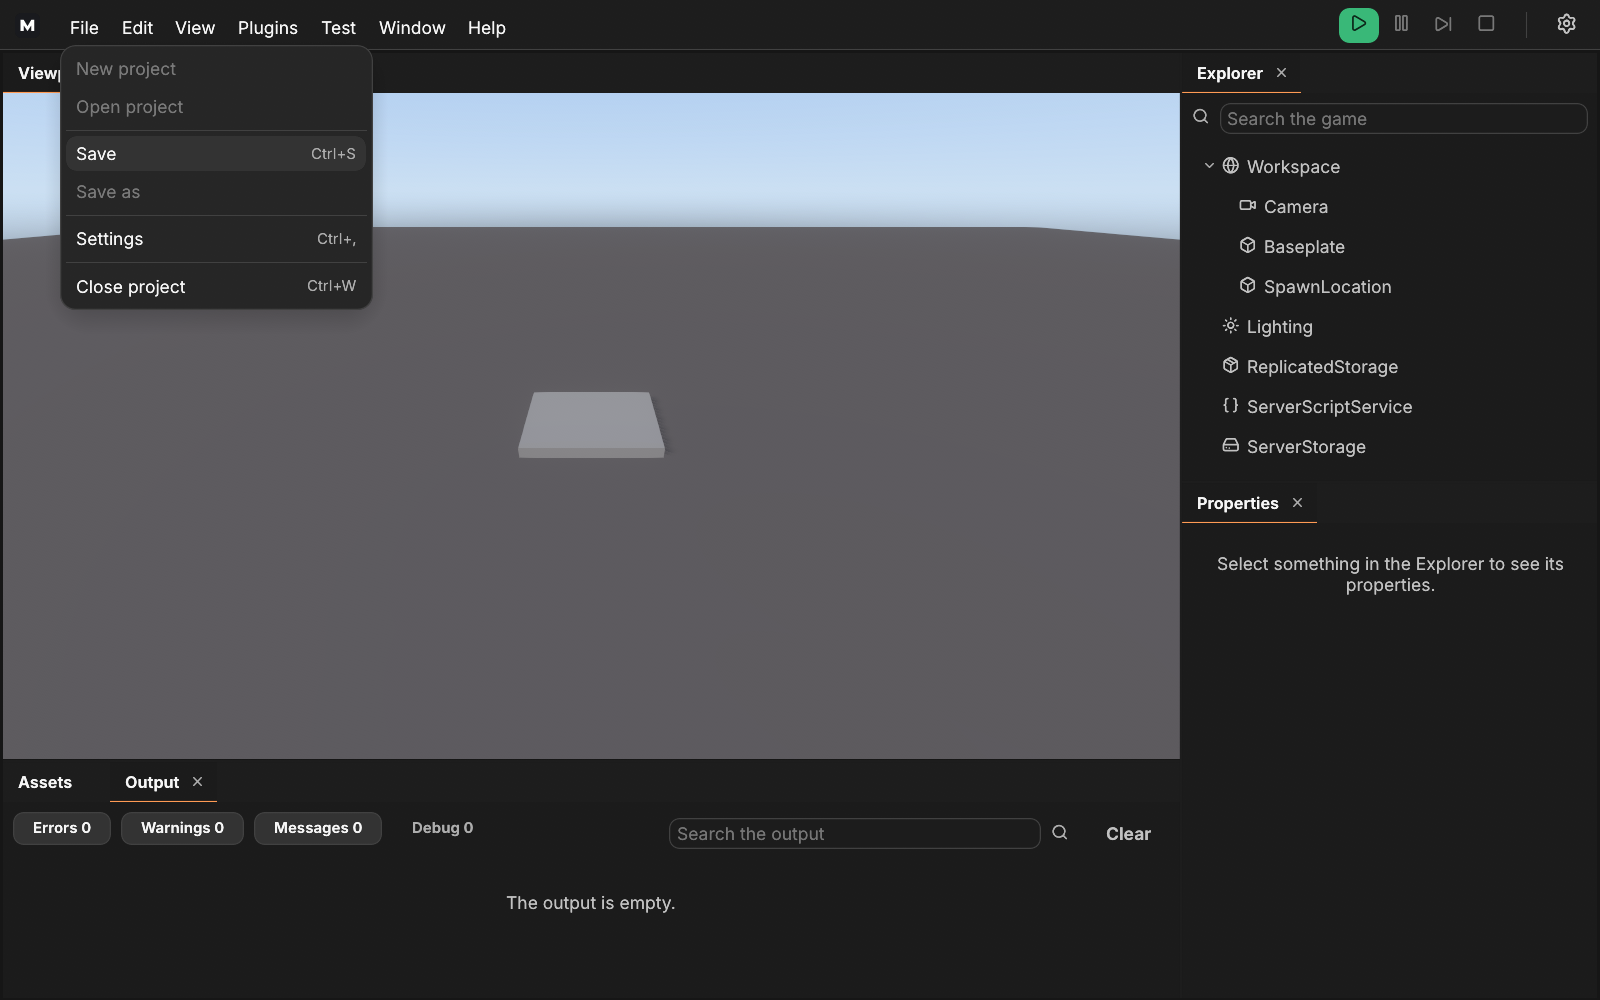
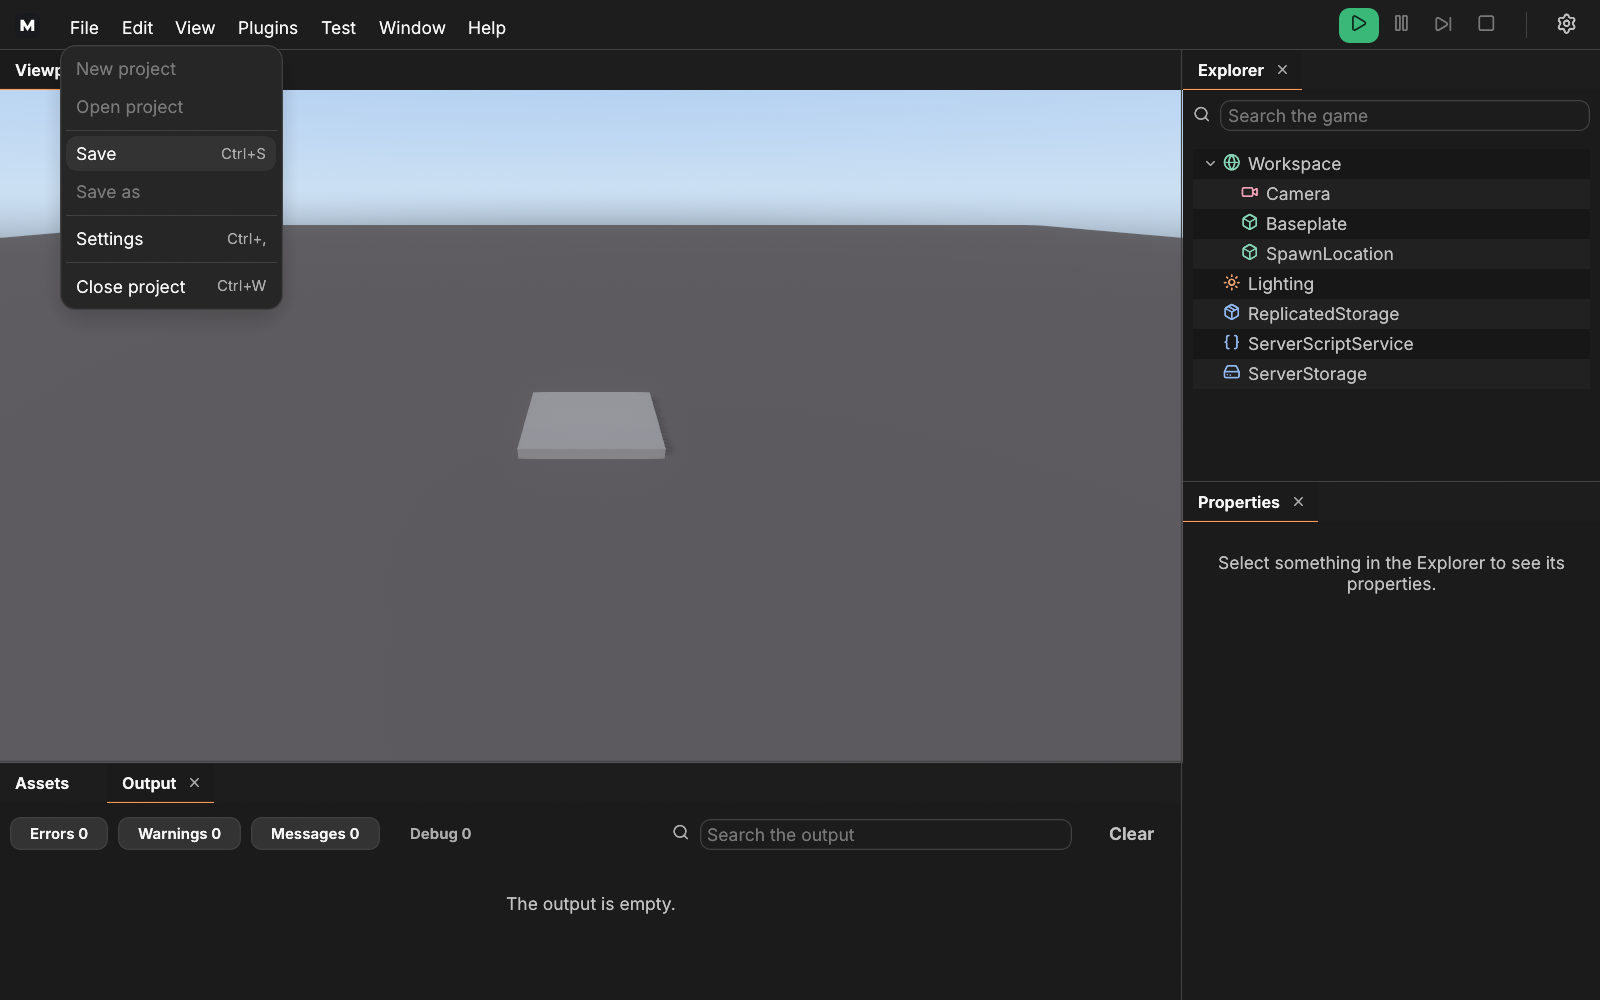
studio: compact menu popups in the menu bar (#276) (#282)

diff --git a/apps/studio/src/app/editor.rs b/apps/studio/src/app/editor.rs
@@ -20,8 +20,10 @@ use crate::theme::{ButtonKind, button, current_colors, fonts};
 
 /// The top bar's height.
 pub(crate) const BAR_HEIGHT: f32 = 40.0;
-/// A menu's width.
-const MENU_WIDTH: f32 = 240.0;
+/// The narrowest a menu is (#276: otherwise as wide as its longest item and shortcut need).
+const MENU_MIN_WIDTH: f32 = 150.0;
+/// The space between an item's label and its shortcut.
+const SHORTCUT_GAP: f32 = space::S8;
 /// A menu item's height.
 const ITEM_HEIGHT: f32 = 28.0;
 /// A menu title's height in the bar.
@@ -313,8 +315,10 @@ pub(crate) fn top_bar(
                                 .min_size(vec2(*width, TITLE_HEIGHT))
                                 .corner_radius(CornerRadius::same(radius::ITEM));
                             let (response, _) = egui::containers::menu::MenuButton::from_button(title).ui(ui, |ui| {
-                                ui.set_min_width(MENU_WIDTH);
-                                if let Some(chosen) = menu_entries(ui, menu, dock, keymap, play) {
+                                let width = menu_width(ui, menu, dock, keymap);
+                                ui.set_min_width(width);
+                                ui.set_max_width(width);
+                                if let Some(chosen) = menu_entries(ui, menu, dock, keymap, play, width) {
                                     action = Some(chosen);
                                 }
                             });
@@ -424,7 +428,14 @@ fn gear(ui: &mut Ui, open: bool) -> Response {
 }
 
 /// Draws `menu`'s lines into its open popup. Returns what was chosen.
-fn menu_entries(ui: &mut Ui, menu: &Menu, dock: &Dock, keymap: &Keymap, play: PlayState) -> Option<MenuAction> {
+fn menu_entries(
+    ui: &mut Ui,
+    menu: &Menu,
+    dock: &Dock,
+    keymap: &Keymap,
+    play: PlayState,
+    width: f32,
+) -> Option<MenuAction> {
     let mut chosen = None;
     ui.spacing_mut().item_spacing.y = 2.0;
     for entry in menu.entries {
@@ -436,17 +447,17 @@ fn menu_entries(ui: &mut Ui, menu: &Menu, dock: &Dock, keymap: &Keymap, play: Pl
                 } else {
                     label
                 };
-                if menu_item(ui, label, keys, None, play.allows(action)).clicked() {
+                if menu_item(ui, width, label, keys, None, play.allows(action)).clicked() {
                     chosen = Some(action);
                 }
             }
             Entry::Planned(label) => {
-                menu_item(ui, label, None, None, false).on_hover_text("Coming in a later version of Studio.");
+                menu_item(ui, width, label, None, None, false).on_hover_text("Coming in a later version of Studio.");
             }
             Entry::Panels => {
                 for panel in dock.panels().iter().filter(|panel| !panel.transient()) {
                     let open = dock.is_open(panel.id());
-                    if menu_item(ui, panel.title(), None, Some(open), true).clicked() {
+                    if menu_item(ui, width, panel.title(), None, Some(open), true).clicked() {
                         chosen = Some(MenuAction::Toggle(panel.id()));
                     }
                 }
@@ -459,13 +470,58 @@ fn menu_entries(ui: &mut Ui, menu: &Menu, dock: &Dock, keymap: &Keymap, play: Pl
     chosen
 }
 
-/// A menu item: a check mark when `checked` is `Some(true)`, the label, and the shortcut on the right. A click closes
+/// How wide `menu` is (#276): its longest line, the check column (for the panels' list), the label, the gap and the
+/// shortcut, with the item's padding on both sides; never less than [`MENU_MIN_WIDTH`].
+fn menu_width(ui: &Ui, menu: &Menu, dock: &Dock, keymap: &Keymap) -> f32 {
+    let painter = ui.painter();
+    let measure = |text: &str, size: f32| {
+        painter
+            .layout_no_wrap(text.to_owned(), egui::FontId::proportional(size), Color32::WHITE)
+            .size()
+            .x
+    };
+    let mut widest: f32 = 0.0;
+    let mut line = |label: &str, shortcut: Option<String>, check: bool| {
+        let check = if check { text::BODY + space::S3 } else { 0.0 };
+        let keys = shortcut.map_or(0.0, |keys| SHORTCUT_GAP + measure(&keys, text::SMALL));
+        widest = widest.max(check + measure(label, text::BODY) + keys);
+    };
+    for entry in menu.entries {
+        match *entry {
+            Entry::Item { label, action, command } => {
+                let keys = command.and_then(|id| keymap.shortcut_text(id));
+                line(label, keys.clone(), false);
+                if action == MenuAction::Pause {
+                    // Pause reads Resume while paused: the menu keeps one width.
+                    line("Resume", keys, false);
+                }
+            }
+            Entry::Planned(label) => line(label, None, false),
+            Entry::Panels => {
+                for panel in dock.panels().iter().filter(|panel| !panel.transient()) {
+                    line(panel.title(), None, true);
+                }
+            }
+            Entry::Separator => {}
+        }
+    }
+    (widest + 2.0 * space::S4).ceil().max(MENU_MIN_WIDTH)
+}
+
+/// A menu item `width` wide: a check mark when `checked` is `Some(true)`, the label, and the shortcut on the right. A click closes
 /// the menu. Not `enabled`, it is drawn at the theme's disabled strength and does nothing.
-fn menu_item(ui: &mut Ui, label: &str, shortcut: Option<String>, checked: Option<bool>, enabled: bool) -> Response {
+fn menu_item(
+    ui: &mut Ui,
+    width: f32,
+    label: &str,
+    shortcut: Option<String>,
+    checked: Option<bool>,
+    enabled: bool,
+) -> Response {
     let colors = current_colors(ui.ctx());
     let p = colors.palette;
-    // A fixed width: a popup's available width is not its own, and items sized from it widen the menu every frame.
-    let width = MENU_WIDTH;
+    // The menu's width, measured from its items: a popup's available width is not its own, and items sized from it
+    // widen the menu every frame.
     let sense = if enabled { Sense::click() } else { Sense::hover() };
     let (rect, response) = ui.allocate_exact_size(vec2(width, ITEM_HEIGHT), sense);
     response.widget_info(|| match checked {

diff --git a/apps/studio/src/app/mod.rs b/apps/studio/src/app/mod.rs
@@ -2281,6 +2281,20 @@ mod tests {
                     editor::Entry::Separator => {}
                 }
             }
+            // Compact (#276): one width per menu, as its longest line needs, not the old fixed 240.
+            let items: Vec<egui::Rect> = harness
+                .query_all_by_role(Role::MenuItem)
+                .chain(harness.query_all_by_role(Role::MenuItemCheckBox))
+                .map(|item| item.rect())
+                .collect();
+            let width = items[0].width();
+            assert!(
+                items.iter().all(|item| (item.width() - width).abs() < 0.01),
+                "{}",
+                menu.title
+            );
+            assert!(width < 240.0, "{} is {width} wide", menu.title);
+            assert!(width >= 150.0, "{} is {width} wide", menu.title);
             // Escape closes it, ready for the next.
             harness.key_press(Key::Escape);
             settle(&mut harness);
